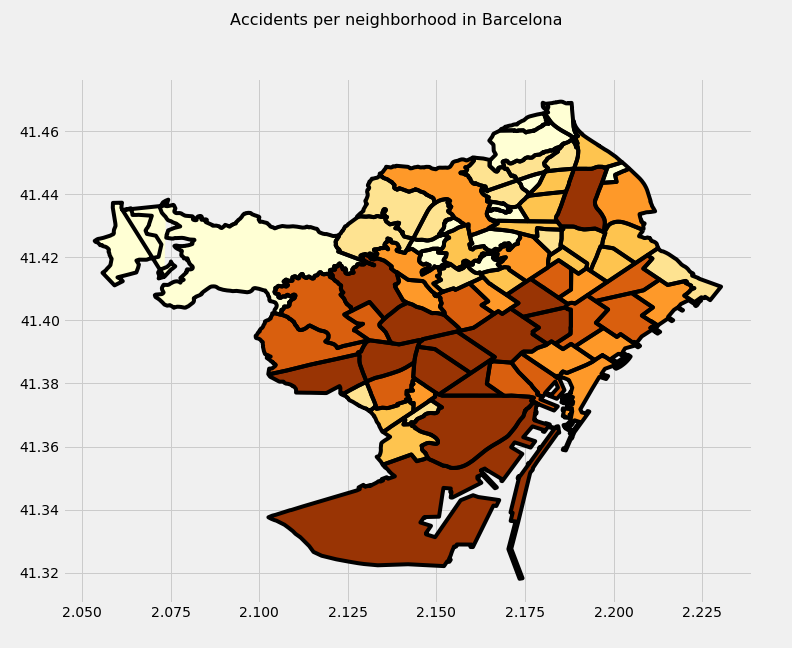
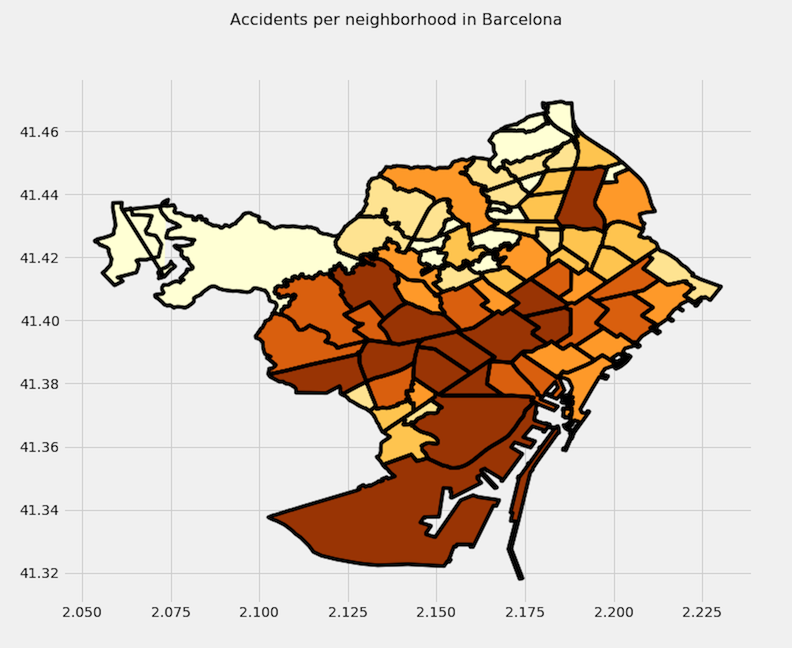
Still finishing neihborhoods

diff --git a/_posts/2017-1-1-Hello-World.md b/_posts/2017-1-1-Hello-World.md
@@ -105,19 +105,24 @@ I will analyze accidents and deaths by district in Barcelona. I will show 3 plot
 
 ![shapefile_district_average](/images/shapefile_district_ratio.png)
 
-* Neighborhood
-
-Things change only a little bit when we talk about neighborhoods. The first important change is the number of neighborhoods that is 74 instead of 10 districts. First, we will take a look at the accidents and deaths by neighborhood plus its ratio (with the last one things get really interesting).
-
-![shapefile_neighborhood_acc](/images/shapefile_neighborhood_acc.png)|![shapefile_neighborhood_dea](/images/shapefile_neighborhood_deaths.png)|![shapefile_neighborhood_ratio](/images/shapefile_neighborhood_ratio.png)|
-
-
-Let's have a look at the top 10 in each category.
-
-
-
 What I realized about Barcelona is that the Eixample district is the one that has a lot of the traffic and therefore the accidents and the number of deaths but if you analyze the ratio of the number of deaths per accident it is really low and Les Corts and Nou Bariis, where there is not a lot of traffic, gets the winning position.
 
+* Neighborhood
+
+Things change only a little bit when we talk about neighborhoods. The first important change is the number of neighborhoods that is 74 instead of 10 districts. First, we will take a look at the accidents. and almost immediately two thing jump out:and deaths by neighborhood plus its ratio (with the last one things get really interesting).
+
+![shapefile_neighborhood_acc](/images/shapefile_neighborhood_acc.png)
+
+ There are two things that jump out: 1. What a hell is doing that red neighborhood in the middle? Sant Andreu neighborhood. 2. Do the dark area in most neighborhoodsfollows Diagonal Avenue? I decided to draw Diagonal on top of the map to confirm it.
+
+ ![shapefile_neighborhood_diagonal](/images/accidents_diagonal_2018.png)
+
+ Also, as it happened with the districts, those neighborhoods with the higher numbers of accidents and deaths DO not correspond with the neighborhoods with a higher deaths/accidents ratio.
+
+![shapefile_neighborhood_dea](/images/shapefile_neighborhood_deaths.png)|![shapefile_neighborhood_ratio](/images/shapefile_neighborhood_ratio.png)|
+
+
+Let's have a look at the top 10 in each category. Once again: the neighborhoods with a ahigher number of accidents and deaths are not (except for exceptions) in the top when we take into consideration the ratio deaths/accidents.
 
 
 
